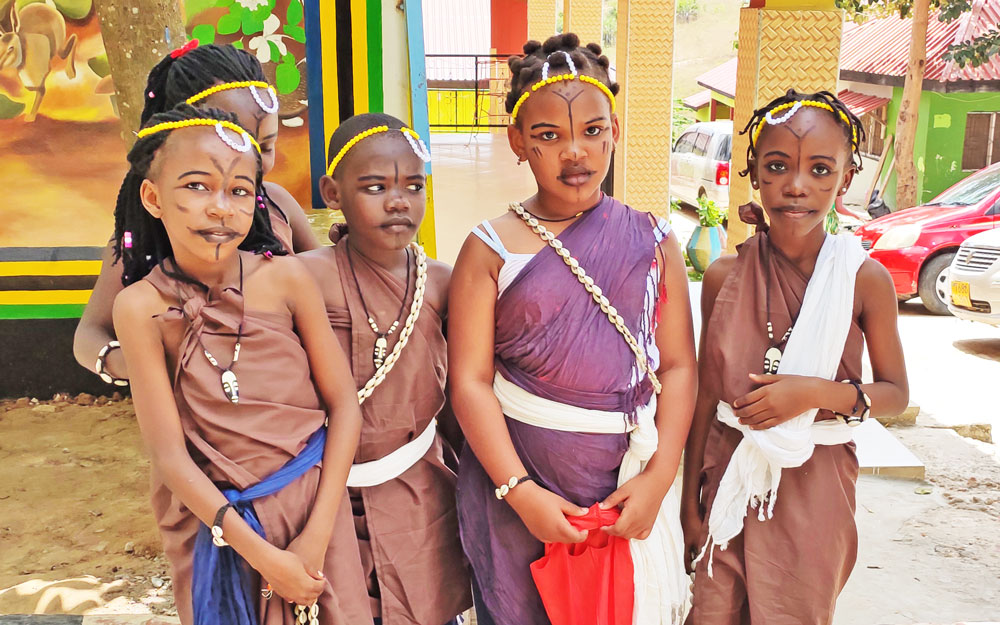
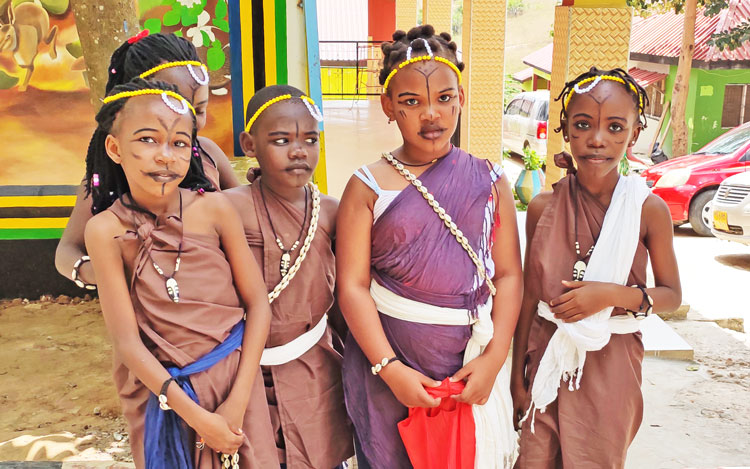
edited cultural article

Changed region(s): [[0.92, 0.0299, 0.9507, 0.0896], [0.8587, 0.0896, 0.8893, 0.1194]]

diff --git a/public/post/joyland-cultural-day/index.html b/public/post/joyland-cultural-day/index.html
@@ -86,7 +86,7 @@
     <div class="container">
         <div class="row">
             <div class="col-md-8 col-md-offset-2 text-center">
-                <img class="img-responsive post-thumb d-inline-block" src="/images/photo/cultural.jpg" alt="blog-image">
+                <img class="img-responsive post-thumb d-inline-block" src="/images/photo/cultural0.jpg" alt="blog-image">
                 <h1 class="post-title">Joyland School Celebrate Cultural Day</h1>
                 <ul class="list-inline mb-50 post-meta">
                     <li class="list-inline-item">Grace Semba</li>
@@ -98,15 +98,16 @@
                     
 
 
-<p>Recently the Joyland School celebrated the cultural day. On Friday 16, August 2019, the management of Joyland International School Organized a cultural day at the Joyland ground.</p>
-<p>Parents were welcome to attend the event and the day proved to be an informative and enjoyable celebration of our traditional culture. The annual Cultural Day was eagerly anticipated and after much effort preparing performances from around the world, students revelled in the opportunity to celebrate their cultural identities. <br></br></p>
-<p>Given the different tribes in Tanzania, we are part of a diverse, multi-cultural community and it was fantastic to celebrate this with children and their families. It was lovely to see so many children dressing in clothes from their own or others cultures and the staff looked great as well! <br></br></p>
-<p>For students, parents and members of staff of Joyland International School, Tanzania, celebrating African’s rich cultural heritage is not only necessary, but of utmost priority. This is what informed the celebration of Cultural Day in the school, where everybody was dressed in gorgeous indigenous cultural attires. Various songs were rendered in local languages.<br></br></p>
+<p>Recently, Joyland School celebrated the cultural day. The event occurred On Friday 16, August 2019, at the Joyland ground. The annual Cultural Day was eagerly anticipated and after much effort preparing performances from around the world, students revealed in the opportunity to celebrate their cultural identities. Parents were welcomed to attend the event and the day was gorgeous! <br></br></p>
+<p>With a theme of the day <strong>Celebrating and Appreciating Cultural Diversity in Tanzania and Beyond</strong>, I realized the diverse and multi-cultural of different communities in my country and the cultural of other people outside Tanzania. It was lovely to see my fellow students dressed in clothes from different cultures and the staff looked great as well!</p>
+<p><img src="/images/photo/cultural.jpg" alt="students with cultural attire" />
+<br></br></p>
+<p>I realized that celebrating African’s rich cultural heritage is not only necessary, but of utmost priority. This is what informed the celebration of Cultural Day in the school, where everybody was dressed in gorgeous indigenous cultural attires and various songs were rendered in local languages.<br></br></p>
 <p>The day started with students spent time with their own teachers—discussing the cultures that were represented in their class. Some children were lucky enough to have parents visit and observe the performance of our cultural dance along with beliefs, values and traditions. <br></br></p>
-<p>On his part, the director of Joyland, Mr. Otieno, described the event as remarkable, saying it would make a great impact on the lives of the students. He also advised parents to encourage their children speak their various mother tongues.<br></br></p>
-<p>Thank you to all the families who made such an effort to dress their children in their cultural outfits, came into speak to the children or provided food for our after school celebration.
-We can’t wait to do it all again next year!</p>
-<iframe width="560" height="315" src="https://www.youtube.com/embed/ZNICtRcfANs" frameborder="0" allow="accelerometer; autoplay; encrypted-media; gyroscope; picture-in-picture" allowfullscreen>
+<p>On his part, the director of Joyland School, Mr. Fredrick Otieno, described the event as remarkable, saying <em>it would make a great impact on the lives of the students</em>. He advised parents to encourage their children to speak their various mother tongues.<br></br></p>
+<p>I appreciate families that supported an event by any moral support and dressing their children in their cultural outfits. I can’t wait to do it all again next year! <br></br></p>
+<p>I made a short video clip for those who missed an event to have a glimpse of the celebration. Enjoy presence even if you missed it!</p>
+<iframe width="750" height="422" src="https://www.youtube.com/embed/ZNICtRcfANs" frameborder="0" allow="accelerometer; autoplay; encrypted-media; gyroscope; picture-in-picture" allowfullscreen>
 </iframe>
 
                 </div>

diff --git a/content/post/2019-08-19-joyland-cultural-day.html b/content/post/2019-08-19-joyland-cultural-day.html
@@ -2,7 +2,7 @@
 title: Joyland School Celebrate Cultural Day
 author: Grace Semba
 date: '2019-08-19'
-image: images/photo/cultural.jpg
+image: images/photo/cultural0.jpg
 slug: joyland-cultural-day
 categories: []
 tags: []
@@ -10,13 +10,14 @@ tags: []
 
 
 
-<p>Recently the Joyland School celebrated the cultural day. On Friday 16, August 2019, the management of Joyland International School Organized a cultural day at the Joyland ground.</p>
-<p>Parents were welcome to attend the event and the day proved to be an informative and enjoyable celebration of our traditional culture. The annual Cultural Day was eagerly anticipated and after much effort preparing performances from around the world, students revelled in the opportunity to celebrate their cultural identities. <br></br></p>
-<p>Given the different tribes in Tanzania, we are part of a diverse, multi-cultural community and it was fantastic to celebrate this with children and their families. It was lovely to see so many children dressing in clothes from their own or others cultures and the staff looked great as well! <br></br></p>
-<p>For students, parents and members of staff of Joyland International School, Tanzania, celebrating African’s rich cultural heritage is not only necessary, but of utmost priority. This is what informed the celebration of Cultural Day in the school, where everybody was dressed in gorgeous indigenous cultural attires. Various songs were rendered in local languages.<br></br></p>
+<p>Recently, Joyland School celebrated the cultural day. The event occurred On Friday 16, August 2019, at the Joyland ground. The annual Cultural Day was eagerly anticipated and after much effort preparing performances from around the world, students revealed in the opportunity to celebrate their cultural identities. Parents were welcomed to attend the event and the day was gorgeous! <br></br></p>
+<p>With a theme of the day <strong>Celebrating and Appreciating Cultural Diversity in Tanzania and Beyond</strong>, I realized the diverse and multi-cultural of different communities in my country and the cultural of other people outside Tanzania. It was lovely to see my fellow students dressed in clothes from different cultures and the staff looked great as well!</p>
+<p><img src="/images/photo/cultural.jpg" alt="students with cultural attire" />
+<br></br></p>
+<p>I realized that celebrating African’s rich cultural heritage is not only necessary, but of utmost priority. This is what informed the celebration of Cultural Day in the school, where everybody was dressed in gorgeous indigenous cultural attires and various songs were rendered in local languages.<br></br></p>
 <p>The day started with students spent time with their own teachers—discussing the cultures that were represented in their class. Some children were lucky enough to have parents visit and observe the performance of our cultural dance along with beliefs, values and traditions. <br></br></p>
-<p>On his part, the director of Joyland, Mr. Otieno, described the event as remarkable, saying it would make a great impact on the lives of the students. He also advised parents to encourage their children speak their various mother tongues.<br></br></p>
-<p>Thank you to all the families who made such an effort to dress their children in their cultural outfits, came into speak to the children or provided food for our after school celebration.
-We can’t wait to do it all again next year!</p>
-<iframe width="560" height="315" src="https://www.youtube.com/embed/ZNICtRcfANs" frameborder="0" allow="accelerometer; autoplay; encrypted-media; gyroscope; picture-in-picture" allowfullscreen>
+<p>On his part, the director of Joyland School, Mr. Fredrick Otieno, described the event as remarkable, saying <em>it would make a great impact on the lives of the students</em>. He advised parents to encourage their children to speak their various mother tongues.<br></br></p>
+<p>I appreciate families that supported an event by any moral support and dressing their children in their cultural outfits. I can’t wait to do it all again next year! <br></br></p>
+<p>I made a short video clip for those who missed an event to have a glimpse of the celebration. Enjoy presence even if you missed it!</p>
+<iframe width="750" height="422" src="https://www.youtube.com/embed/ZNICtRcfANs" frameborder="0" allow="accelerometer; autoplay; encrypted-media; gyroscope; picture-in-picture" allowfullscreen>
 </iframe>

diff --git a/public/index.html b/public/index.html
@@ -169,11 +169,11 @@
                             
                             <li class="wow fadeInLeft" data-wow-duration="300ms" data-wow-delay="300ms">
                                 <div class="blog-img">
-                                    <img src="/images/photo/cultural.jpg" alt="post-image" class="img-responsive">
+                                    <img src="/images/photo/cultural0.jpg" alt="post-image" class="img-responsive">
                                 </div>
                                 <div class="content-right">
                                     <h3><a href="/post/joyland-cultural-day/">Joyland School Celebrate Cultural Day</a></h3>
-                                    <p>Recently the Joyland School celebrated the cultural day.</p>
+                                    <p>Recently, Joyland School celebrated the cultural day.</p>
                                 </div>
                             </li>
                              
@@ -183,7 +183,7 @@
                                 </div>
                                 <div class="content-right">
                                     <h3><a href="/post/going-to-school-with-datala/">Summer Holiday with Daladala!</a></h3>
-                                    <p>I Welcome you again to my blog and in this post I briefly narrate to you the experience I had during summer holiday.</p>
+                                    <p>In this post I briefly narrate to you the experience I had during summer holiday.</p>
                                 </div>
                             </li>
                              
@@ -193,7 +193,7 @@
                                 </div>
                                 <div class="content-right">
                                     <h3><a href="/post/with-friends-outing-for-our-brother-kelvin/">With Friends: Outing for our brother Kelvin</a></h3>
-                                    <p>It was on the Saturday 14, October in 2017, when my parents and my young brother Daniel Joined Dr.</p>
+                                    <p>On October 14, 2017, my parents and my young brother Daniel Joined Dr.</p>
                                 </div>
                             </li>
                              

diff --git a/content/post/2019-08-13-going-to-school-with-datala.html b/content/post/2019-08-13-going-to-school-with-datala.html
@@ -19,7 +19,7 @@ tags: []
 <script src="/rmarkdown-libs/leaflet-binding/leaflet.js"></script>
 
 
-<p>I Welcome you again to my blog and in this post I briefly narrate to you the experience I had during summer holiday. As you know that I am candidate to sit for grade four national examination in October, the Joyland Management decided that we should continue with classes even when others are on holiday. <br></br></p>
+<p>In this post I briefly narrate to you the experience I had during summer holiday. As you know that I am candidate to sit for grade four national examination in October, the Joyland Management decided that we should continue with classes even when others are on holiday. <br></br></p>
 <p>The school is located at Toangoma, about 26 kilometers from Dege—my home place. So, I often cover about 50 kilometer for round trip to go to school and coming back home. With school bus and the absence of traffic Jam at Kigamboni, I had never notice the distance and the time I spend for a ride to school and back home. But, during the summer holiday, instead of sticking on the normal ride of school bus, I decided to go to school and come back home with a public transport—<em>daladala</em>. <br></br></p>
 <p>Unfortunate there is no direct <em>daladala</em> from home to school. Therefore, I had to use two <em>daladala</em>. I often left home around 6:15 <code>A.M</code> and walk from home to the <em>Nguzo mbili</em> bus stop, which is about 300 meters from home and wait for a bus. I had to wait for several minutes as conductors would passby and tell the driver not to stop because the passenger is just a <span><em>dent</em></span>. <br></br></p>
 <p>Once I got into the bus, I took us about 30 minutes from Dege to <em>Mji mwema</em>—a bus stop where I dropped and took another bus, that also took about 20 minutes and drop off at a bus stop near the school called <em>Nyumba Ya Njano</em>. Then walk to School a distance of about half a kilometer. <br></br></p>

diff --git a/public/post/going-to-school-with-datala/index.html b/public/post/going-to-school-with-datala/index.html
@@ -107,7 +107,7 @@
 <script src="/rmarkdown-libs/leaflet-binding/leaflet.js"></script>
 
 
-<p>I Welcome you again to my blog and in this post I briefly narrate to you the experience I had during summer holiday. As you know that I am candidate to sit for grade four national examination in October, the Joyland Management decided that we should continue with classes even when others are on holiday. <br></br></p>
+<p>In this post I briefly narrate to you the experience I had during summer holiday. As you know that I am candidate to sit for grade four national examination in October, the Joyland Management decided that we should continue with classes even when others are on holiday. <br></br></p>
 <p>The school is located at Toangoma, about 26 kilometers from Dege—my home place. So, I often cover about 50 kilometer for round trip to go to school and coming back home. With school bus and the absence of traffic Jam at Kigamboni, I had never notice the distance and the time I spend for a ride to school and back home. But, during the summer holiday, instead of sticking on the normal ride of school bus, I decided to go to school and come back home with a public transport—<em>daladala</em>. <br></br></p>
 <p>Unfortunate there is no direct <em>daladala</em> from home to school. Therefore, I had to use two <em>daladala</em>. I often left home around 6:15 <code>A.M</code> and walk from home to the <em>Nguzo mbili</em> bus stop, which is about 300 meters from home and wait for a bus. I had to wait for several minutes as conductors would passby and tell the driver not to stop because the passenger is just a <span><em>dent</em></span>. <br></br></p>
 <p>Once I got into the bus, I took us about 30 minutes from Dege to <em>Mji mwema</em>—a bus stop where I dropped and took another bus, that also took about 20 minutes and drop off at a bus stop near the school called <em>Nyumba Ya Njano</em>. Then walk to School a distance of about half a kilometer. <br></br></p>

diff --git a/public/post/with-friends-outing-for-our-brother-kelvin/index.html b/public/post/with-friends-outing-for-our-brother-kelvin/index.html
@@ -95,7 +95,7 @@
             </div>
             <div class="col-md-8 col-md-offset-2">
                 <div class="post-single-content">
-                    <p>It was on the Saturday 14, October in 2017, when my parents and my young brother Daniel Joined Dr. Magreth to Congratulate Kelvin for enduring his A-level studies at Tumsime High School. I was excited and never had deep sleep on that day. I was so nervous on the day, hoping to see my friends, the twins on the events. We started the journey to Tabata early around 8 <code>A.M</code> and it took us like one hour and tweny minutes. Katika sura hiyo na katika mistari minne tuliyoitumia, kuna mambo takribani saba muhimu sana ambayo katika ukurasa wetu wa kwanza hatukuyaeleza yote. Na mambo hayo saba yote ndiyo yaliyobeba maudhui ya ukura wetu. <br></br></p>
+                    <p>On October 14, 2017, my parents and my young brother Daniel Joined Dr. Magreth to Congratulate Kelvin for enduring his A-level studies at Tumsime High School. I was excited and never had deep sleep on that day. I was so nervous on the day, hoping to see my friends, the twins on the events. We started the journey to Tabata early around 8 <code>A.M</code> and it took us like one hour and tweny minutes. Katika sura hiyo na katika mistari minne tuliyoitumia, kuna mambo takribani saba muhimu sana ambayo katika ukurasa wetu wa kwanza hatukuyaeleza yote. Na mambo hayo saba yote ndiyo yaliyobeba maudhui ya ukura wetu. <br></br></p>
 
                 </div>
             </div>

diff --git a/content/post/2019-08-11-with-friends-outing-for-our-brother-kelvin.md b/content/post/2019-08-11-with-friends-outing-for-our-brother-kelvin.md
@@ -8,4 +8,4 @@ categories: []
 tags: []
 ---
 
-It was on the Saturday 14, October in 2017, when my parents and my young brother Daniel Joined Dr. Magreth to Congratulate Kelvin for enduring his A-level studies at Tumsime High School. I was excited and never had deep sleep on that day. I was so nervous on the day, hoping to see my friends, the twins on the events. We started the journey to Tabata early around 8 `A.M` and it took us like one hour and tweny minutes. Katika sura hiyo na katika mistari minne tuliyoitumia, kuna mambo takribani saba muhimu sana ambayo katika ukurasa wetu wa kwanza hatukuyaeleza yote. Na mambo hayo saba yote ndiyo yaliyobeba maudhui ya ukura wetu. <br></br>
+On October 14, 2017, my parents and my young brother Daniel Joined Dr. Magreth to Congratulate Kelvin for enduring his A-level studies at Tumsime High School. I was excited and never had deep sleep on that day. I was so nervous on the day, hoping to see my friends, the twins on the events. We started the journey to Tabata early around 8 `A.M` and it took us like one hour and tweny minutes. Katika sura hiyo na katika mistari minne tuliyoitumia, kuna mambo takribani saba muhimu sana ambayo katika ukurasa wetu wa kwanza hatukuyaeleza yote. Na mambo hayo saba yote ndiyo yaliyobeba maudhui ya ukura wetu. <br></br>
